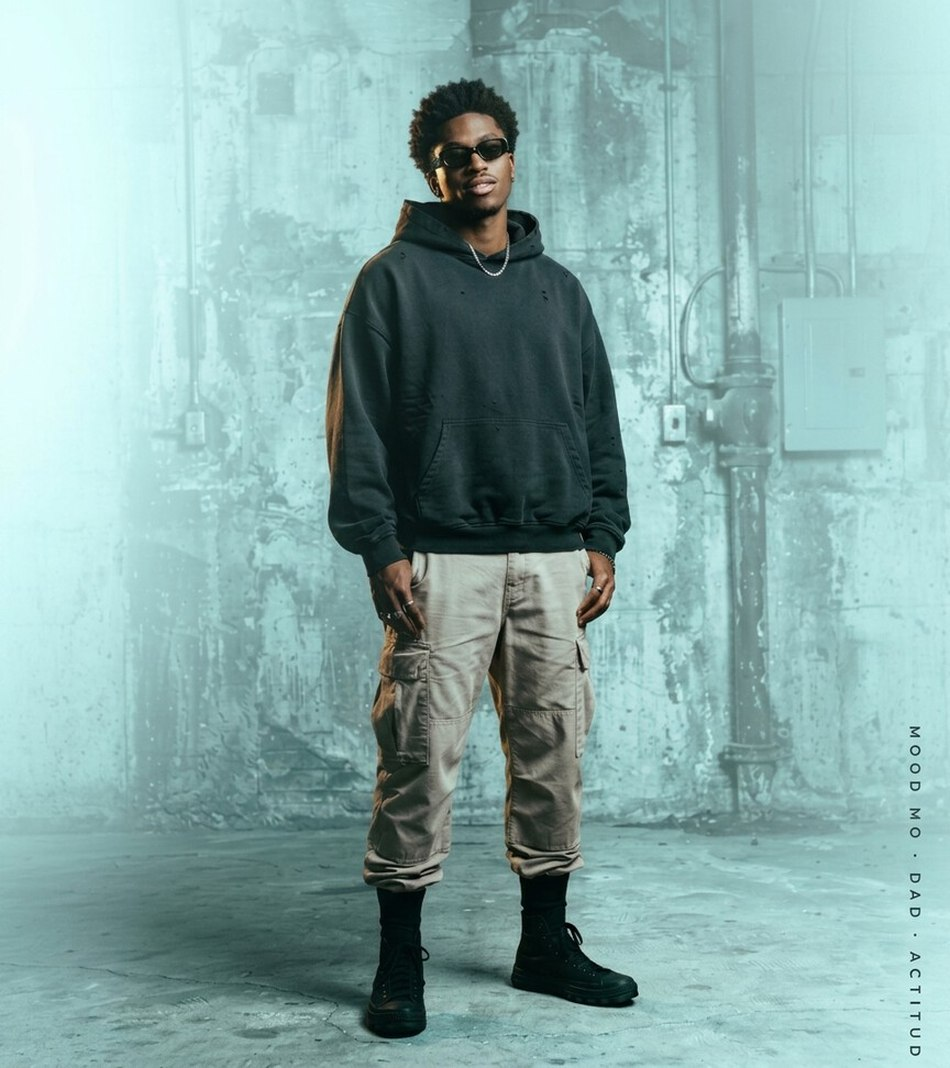
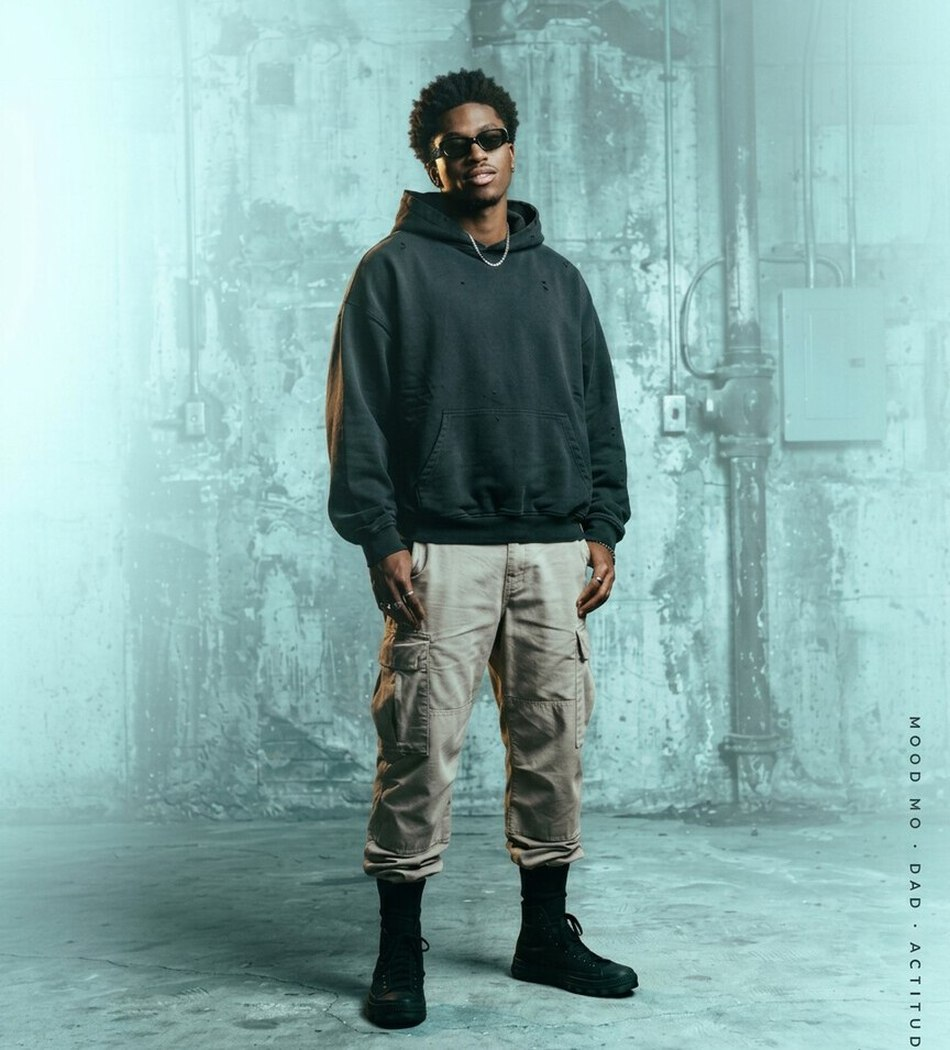
Foto definitiva del hero + panel actualizado con la medida real confirmada (0.80-0.90, 950x1050)

diff --git a/src/components/AdminPanel.tsx b/src/components/AdminPanel.tsx
@@ -486,8 +486,8 @@ export function AdminPanel() {
                   </div>
                 </div>
                 <p className="mb-4 flex flex-wrap items-center gap-2 text-[11px] text-tenue">
-                  <span className="rounded-full bg-acento/15 px-2.5 py-1 text-xs font-semibold text-acento">📐 Vertical 4:5 — ideal 1080 × 1350 px</span>
-                  <span>Más alta que ancha (como una foto de perfil de Instagram). Ocupa el costado derecho de la pantalla, de arriba a abajo — no todo el ancho. Se funde sola con el color de tu tienda del lado del texto, así no se nota el corte.</span>
+                  <span className="rounded-full bg-acento/15 px-2.5 py-1 text-xs font-semibold text-acento">📐 Vertical, proporción 0.80 a 0.90 — ideal 950 × 1050 px</span>
+                  <span>Foto de cuerpo entero (cabeza a los pies), más alta que ancha. Ocupa el costado derecho de la pantalla, de arriba a abajo — no todo el ancho. Se funde sola con el color de tu tienda del lado del texto, así no se nota el corte.</span>
                 </p>
                 <div className="grid gap-4">
                   <Campo label="Etiqueta de arriba" valor="Indumentaria masculina · Venta por mayor" />
